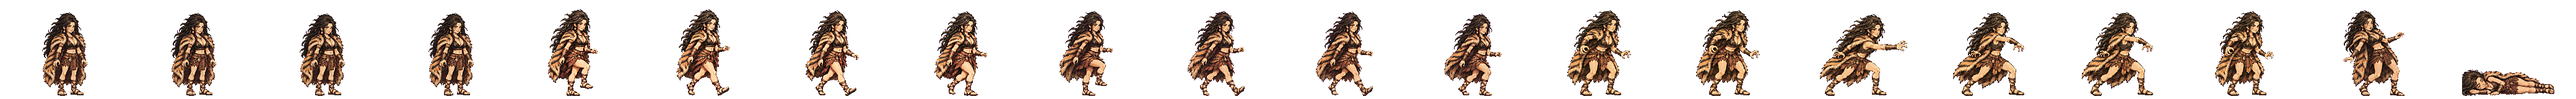
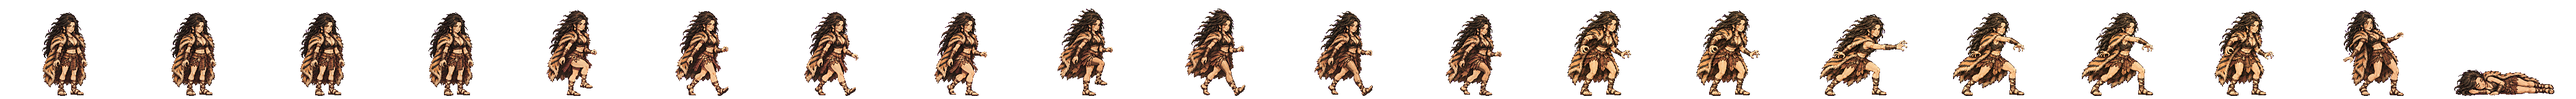
범 띠 고침 (형 11-23 「idle 몸이 잘린다」 「아직도 한쪽 다리로 걸어」 「쓰러짐 머리카락이 잘려 발밑에」): 서기는 코드로 밀지 않음(그린 판이 올 때까지 같은 그림) · 걷기 뒤 절반은 먼 다리가 앞에 나간 판 + leg-relight.py 로 짙은 칠만 옅은 그늘로 · 사람을 칸 금으로 자르지 않고 덩어리째
Claude-Session: https://claude.ai/code/session_01TRiuN7s6aDfSnaHxrkctmU

diff --git a/tools/sprite-kit/leg-relight.py b/tools/sprite-kit/leg-relight.py
@@ -1,0 +1,63 @@
+# -*- coding: utf-8 -*-
+"""먼 쪽 다리의 짙은 칠을 옅은 그늘로 (11-23 형 「한쪽 다리가 스타킹 신은 것처럼」 ↔ 「아직도 한쪽 다리로 걸어 · 셔플 춤」).
+그림 도구는 「먼 다리가 앞으로 나간 칸」을 그릴 때 그 다리를 짙은 갈색으로 칠하거나(스타킹), 살빛을 같게 하라고 하면
+아예 가까운 다리를 앞으로 그려 버린다(같은 발만 딛는다). → 먼 다리가 제대로 앞에 나간 판(짙게 칠해진 판)을 받아,
+코드로 그 짙은 살빛만 「옅은 그늘」까지 밝힌다. 살빛은 가까운 다리와 같아지고, 살짝 어두운 것으로 뒤쪽 다리임이 읽힌다.
+  py -3 -I tools/sprite-kit/leg-relight.py <받은 장면.png> <나갈.png> [남길 그늘 몫=0.28]
+건드리는 곳: 오른쪽 2×2 칸의 사람마다 아래 48% (다리) 의 짙은 살빛 화소만. 가죽 신발·치마·망토는 색으로 걸러 낸다.
+"""
+import sys
+import numpy as np
+from PIL import Image
+from scipy import ndimage
+
+
+def relight(path, out, keep=.28):
+    im = Image.open(path).convert('RGB')
+    a = np.asarray(im).astype(np.float32)
+    H, W = a.shape[:2]
+    r, g, b = a[..., 0], a[..., 1], a[..., 2]
+    fig = (np.minimum(r, b) - g) < 60                      # 자홍 바탕이 아닌 곳
+    lum = r * .299 + g * .587 + b * .114
+    # 밝은 살빛(가까운 다리)과 짙은 살빛(먼 다리) — 망토(노랑 쪽 · 파랑이 낮다)·치마(붉다)·가죽(어둡다)은 비율로 뺀다
+    rg, gb = r / np.maximum(g, 1), g / np.maximum(b, 1)
+    skin_hi = fig & (lum > 165) & (rg > 1.12) & (rg < 1.45) & (gb > 1.10) & (gb < 1.55)
+    skin_lo = fig & (lum > 88) & (lum <= 165) & (rg > 1.30) & (rg < 1.85) & (gb > 1.15) & (gb < 1.75) & (b > 55)
+    res = a.copy()
+    total = 0
+    cw, ch = W / 3, H / 2
+    for j in range(2):
+        for i in range(2):
+            x0, x1, y0, y1 = round(cw * (1 + i)), round(cw * (2 + i)), round(ch * j), round(ch * (j + 1))
+            f = fig[y0:y1, x0:x1]
+            ys = np.nonzero(f.any(1))[0]
+            if len(ys) == 0:
+                continue
+            top, bot = ys.min(), ys.max()
+            legs = np.zeros_like(f)
+            legs[int(top + (bot - top) * .52):] = True
+            hi = skin_hi[y0:y1, x0:x1] & legs
+            lo = skin_lo[y0:y1, x0:x1] & legs
+            # 짙은 살빛은 큰 덩어리(다리 한 짝)여야 한다 — 가까운 다리의 자연스러운 그늘 줄무늬는 작다
+            lab, n = ndimage.label(ndimage.binary_closing(lo, iterations=2))
+            if n == 0 or hi.sum() < 200:
+                continue
+            sizes = ndimage.sum(lo, lab, range(1, n + 1))
+            big = np.isin(lab, [k + 1 for k in range(n) if sizes[k] > max(400, sizes.max() * .25)]) & lo
+            if big.sum() < 400:
+                continue
+            cell = res[y0:y1, x0:x1]
+            hi_mean = cell[hi].mean(0)
+            lo_mean = cell[big].mean(0)
+            target = hi_mean - (hi_mean - lo_mean) * keep      # 차이의 keep 몫만 남긴다
+            gain = target / np.maximum(lo_mean, 1)
+            soft = ndimage.gaussian_filter(big.astype(np.float32), 1.2)[..., None]   # 가장자리는 부드럽게
+            cell[:] = cell * (1 - soft) + np.clip(cell * gain, 0, 255) * soft
+            total += int(big.sum())
+            print(f"칸{j * 2 + i + 1}: 짙은 살빛 {int(big.sum())}px · 밝기 {lum[y0:y1, x0:x1][big].mean():.0f} → {(cell[big] @ np.array([.299, .587, .114])).mean():.0f} (가까운 다리 {lum[y0:y1, x0:x1][hi].mean():.0f})")
+    Image.fromarray(res.clip(0, 255).astype(np.uint8)).save(out)
+    print(out, '고친 화소', total)
+
+
+if __name__ == '__main__':
+    relight(sys.argv[1], sys.argv[2], float(sys.argv[3]) if len(sys.argv) > 3 else .28)

diff --git a/tools/sprite-kit/bake-scene.py b/tools/sprite-kit/bake-scene.py
@@ -58,12 +58,27 @@ def motion(path, name, tag, scene=None):
     out = Image.open(path).convert('RGB'); W, H = out.size; cw, ch = W / 3, H / 2; scale = 1 / Z * (640 / cw)
     src = None
     if scene: src = Image.open(scene).convert('RGB'); sw, sh = src.size[0] / 3, src.size[1] / 2
+    # 사람을 칸 금으로 자르지 않는다 (11-23 형 「쓰러짐 마지막 프레임은 머리카락이 잘렸고 그 잘린 게 발밑에 가 있다」 — 누운 사람의 머리카락이
+    # 칸 금을 넘어가 옆 칸으로 잘려 들어갔다). 그림 전체에서 덩어리를 찾아, 한가운데가 그 칸에 든 가장 큰 덩어리를 통째로 쓴다.
+    full = key(out); solid = full[..., 3] > 60
+    lab, nlab = ndimage.label(ndimage.binary_closing(solid, iterations=3))
+    blobs = []
+    for bi in range(1, nlab + 1):
+        ys_b, xs_b = np.nonzero((lab == bi) & solid)
+        if len(xs_b) > 400: blobs.append((bi, len(xs_b), (xs_b.min() + xs_b.max()) / 2, (ys_b.min() + ys_b.max()) / 2, xs_b.min(), xs_b.max() + 1, ys_b.min(), ys_b.max() + 1))
     for n, (j, i) in enumerate(((0, 0), (0, 1), (1, 0), (1, 1))):
-        c = key(out.crop((round(cw * (1 + i)), round(ch * j), round(cw * (2 + i)), round(ch * (j + 1))))); m = c[..., 3] > 60
-        g = game(Image.fromarray(c), scale); gm = np.asarray(g)[..., 3] > 0; ys, xs = np.nonzero(gm)
+        gx0, gy0 = round(cw * (1 + i)), round(ch * j)
+        c = key(out.crop((gx0, gy0, round(cw * (2 + i)), round(ch * (j + 1))))); m = c[..., 3] > 60   # 판정(자세 겹침)은 칸 그대로
+        mine = [b for b in blobs if cw * (1 + i) <= b[2] < cw * (2 + i) and ch * j <= b[3] < ch * (j + 1)]
+        if not mine: print(f'칸{n + 1}: 사람을 못 찾음'); continue
+        bi, _, bcx, _, bx0, bx1, by0, by1 = max(mine, key=lambda b: b[1])
+        whole = full[by0:by1, bx0:bx1].copy(); whole[..., 3] = np.where(lab[by0:by1, bx0:bx1] == bi, whole[..., 3], 0)
+        g = game(Image.fromarray(whole), scale); gm = np.asarray(g)[..., 3] > 0; ys, xs = np.nonzero(gm)
         cell = Image.new('RGBA', (CELL_W, CELL), (0, 0, 0, 0)); g2 = g.crop((xs.min(), ys.min(), xs.max() + 1, ys.max() + 1))
-        cx = round((xs.min() + xs.max()) / 2); ox = CELL_W // 2 - (cx - xs.min()) + round((cx - g.size[0] / 2))   # 칸 안의 가로 자리를 지킨다
-        if g2.size[0] > CELL_W: g2 = g2.crop(((g2.size[0] - CELL_W) // 2, 0, (g2.size[0] + CELL_W) // 2, g2.size[1]))
+        off = (bcx - (gx0 + cw / 2)) * scale                                   # 칸 한가운데에서 벗어난 만큼(게임 화소) — 칸 안의 가로 자리를 지킨다
+        ox = round(CELL_W / 2 + off - g2.size[0] / 2)
+        if bx0 < gx0 - 2 or bx1 > gx0 + cw + 2: print(f'  칸{n + 1}: 사람이 칸 금을 넘어가 있음(통째로 살림)')
+        if g2.size[0] > CELL_W: print(f'  칸{n + 1}: 폭 {g2.size[0]} > 칸 {CELL_W} — 줄여 넣음'); g2 = g2.resize((CELL_W, round(g2.size[1] * CELL_W / g2.size[0])), Image.BOX)
         cell.alpha_composite(g2, (max(0, min(CELL_W - g2.size[0], ox)), FOOT - g2.size[1])); cell.save(f'{PXD}/{name}-{tag}-{n + 1}.png')
         msg = f'칸{n + 1} 게임 키 {g2.size[1]}'
         # 앞다리·뒷다리 밝기 (11-23 형 「다른 쪽 다리를 딛는 게 없어」 → 「한쪽 다리가 걸을 때만 스타킹 신은 것처럼」)

diff --git a/tools/sprite-kit/strip-build.py b/tools/sprite-kit/strip-build.py
@@ -1,7 +1,7 @@
 # -*- coding: utf-8 -*-
 """뼈대 방식으로 구운 칸들을 20칸 띠로 묶는다 (11-23 · ART-SKELETON 양산 방식의 마지막 걸음).
 띠 규격(옛 gen-*.png 와 같다): 칸 208×160 · 발바닥 줄 155 · 서기 0~3 · 걷기 4~11 · 공격 12~17 · 맞음 18 · 쓰러짐 19.
-  서기 = 서 있는 한 장에 코드로 숨(윗몸을 0·1·2·1 px 내려앉힘 · 발은 그대로)
+  서기 = 그린 서기 판 네 칸(없으면 서 있는 한 장을 네 번 · 코드로 몸을 밀지 않는다)
   걷기 = A3 A4 A1 A2 B3 B4 B1 B2 (지나감 → 뻗음 → 딛음 → 내려앉음 · 반대 다리로 한 번 더)
   공격 = 네 칸을 여섯 자리에: 1 1 2 3 3 4 (준비 둘 · 뻗음 · 지나감 둘 · 되돌아옴)
   맞음 = 쓰러짐 판 칸1 · 쓰러짐 = 쓰러짐 판 칸4
@@ -29,7 +29,9 @@ def breathe(cell, d):
 def main(name, atk, out):
     cell = lambda tag, i: Image.open(f'{PXD}/{name}-{tag}-{i}.png').convert('RGBA')
     stand = place(Image.open(f'{PXD}/{name}-stand-game.png').convert('RGBA'))
-    frames = [breathe(stand, d) for d in (0, 1, 2, 1)]
+    # 서기: 코드로 윗몸을 밀지 않는다 (11-23 형 「idle 누가 코드로 짜랬냐 · 몸이 막 잘리잖아」). 그린 서기 판(<이름>-idle-1..4)이 있으면 그것, 없으면 네 칸 모두 같은 그림.
+    import os
+    frames = [cell('idle', i) for i in (1, 2, 3, 4)] if os.path.exists(f'{PXD}/{name}-idle-1.png') else [stand] * 4
     frames += [cell('walk-a', i) for i in (3, 4, 1, 2)] + [cell('walk-b', i) for i in (3, 4, 1, 2)]
     frames += [cell(atk, i) for i in (1, 1, 2, 3, 3, 4)]
     frames += [cell('down', 1), cell('down', 4)]

diff --git a/docs/realm/production/ART-SKELETON.md b/docs/realm/production/ART-SKELETON.md
@@ -118,3 +118,8 @@ BATTLE-ART-BIBLE.md(그림 결·주문 문안)는 이 문서 아래로 들어간
 - ❌ 걷기 다리 색 (형 11-23 「범 한쪽 다리가 걸을 때만 스타킹 신은 것처럼」): 내가 시킨 「뒤쪽 다리는 한 단계 어둡게」가 지나쳤다 → **취소.** 먼 쪽 팔다리도 살빛은 같고 그늘은 아주 옅게 · 앞뒤는 겹침으로. `bake-scene.py motion` 이 앞다리−뒷다리 밝기 차 14 넘으면 「스타킹처럼 보임」(걷기 A +19~+25 · 할퀴기 −4~−9). 범 걷기 A·B 둘 다 다시. 누운 자세 판은 칸1 만 머리 판정(`body-measure.py motion … 1`).
 - ✅ **첫 장수 한 벌 끝 (19:5x)**: 살해 범 = 서기(코드 숨) · 걷기 8 · 할퀴기 · 맞음 · 쓰러짐 → `strip-build.py` 로 20칸 띠 → `public/realm/anim-px/gen-beom.png` 게임에 넣음. 굽는 칸 규격 208×160 · 발바닥 155(옛 띠와 같다). 대결 화면 띠(`duel/sprites/gen-beom.png`)와 각성 띠(`gen-aw1-beom`)는 아직 옛 그림.
 - 다음: 매화 서기 + 활 자세 판 + 남자 걷기 자세 판(99-m).
+- ❌→고침 (형 11-23 20:2x 「idle 누가 코드로 짜랬냐 · 몸이 막 잘리잖아」 「아직도 한쪽 다리로 걸어 · 셔플 춤」 「쓰러짐 머리카락이 잘려 발밑에」):
+  - **서기는 그린다.** 코드로 윗몸을 밀면 망토·치마가 엉덩이 줄에서 잘린다. 그린 판이 올 때까지는 네 칸 같은 그림(`strip-build.py`).
+  - **걷기 B 는 먼 다리가 앞으로 나가야 한다 — 실루엣 판정도 살빛 판정도 이것을 못 본다. 반드시 다리만 확대해 눈으로 본다.** 그림 도구는 「살빛 같게」를 시키면 다리 차례를 잃는다 → 먼 다리를 어둡게 칠한 판을 받고 `leg-relight.py` 로 옅은 그늘까지 밝힌다(차이의 22%만 남김).
+  - 사람을 칸 금으로 자르지 않는다(`bake-scene.py` 는 덩어리째 · 금을 넘으면 알림).
+  - 내 잘못의 뿌리: 「합격」이라 쓰기 전에 **움짤을 내가 먼저 크게 보지 않았다.** 넣기 전에 걷기는 다리 확대 · 서기는 3배 움짤 · 누운 칸은 원본에 칸 금을 그어 본다.
